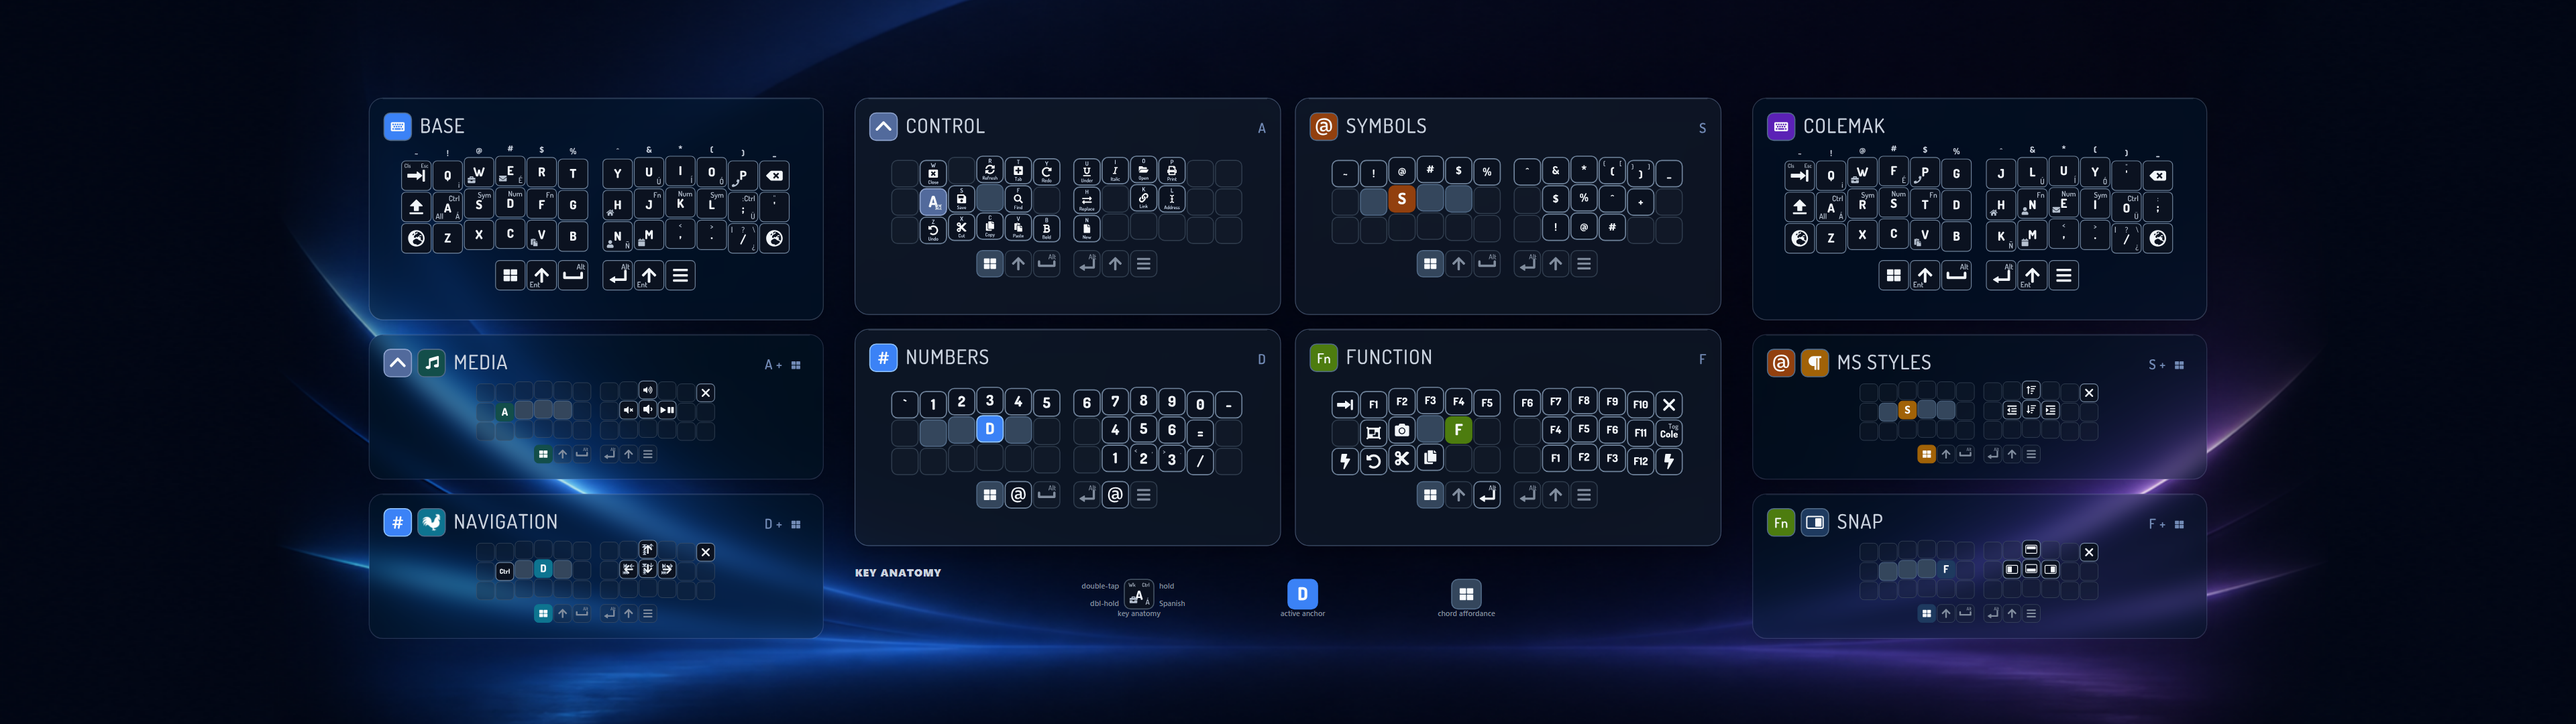
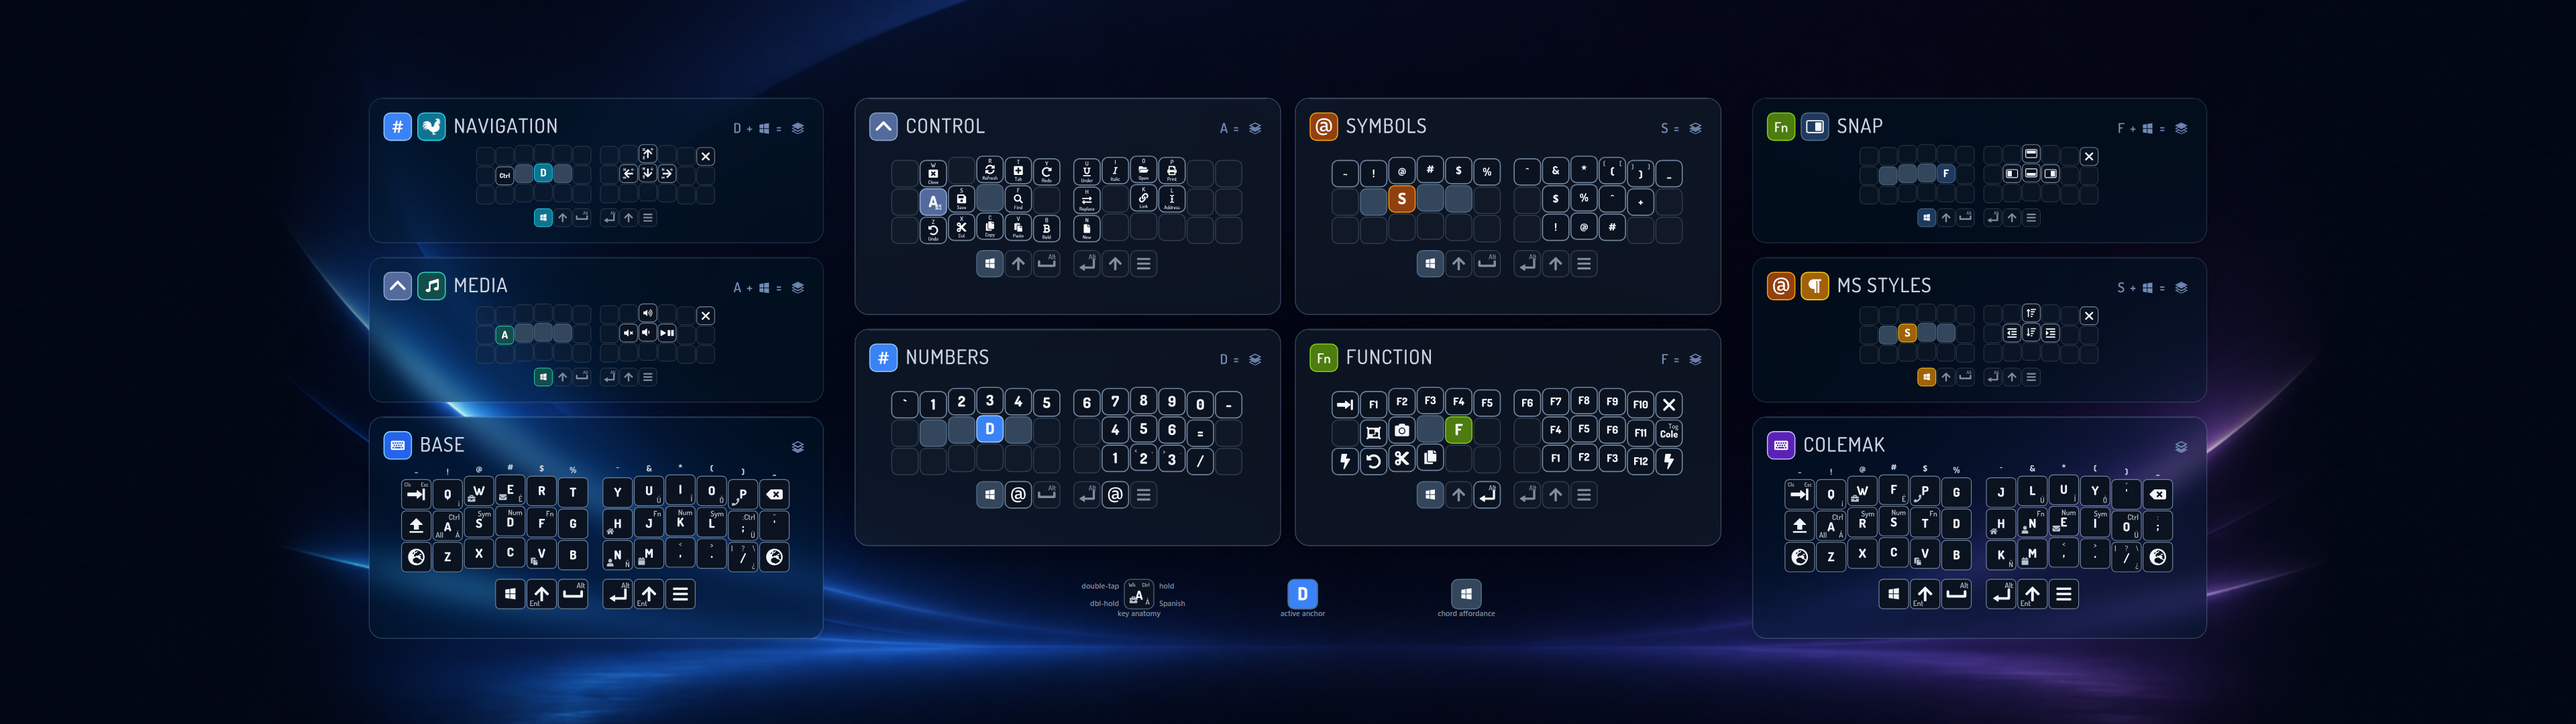
Refine desktop layer access grammar

diff --git a/tools/printable-guide/render_corne_guide.py b/tools/printable-guide/render_corne_guide.py
@@ -382,6 +382,7 @@ PORTAL_DEST = {}
 #   cue_text    â€” label/icon colour on a cue / embed tile
 DEFAULT_PALETTE = {
     "chord":      "#3b82f6",
+    "chord_stroke": "#93c5fd",
     "chord_text": "#ffffff",
     "chord_hold": "#bfdbfe",
     "cue":        "#bfdbfe",
@@ -391,36 +392,39 @@ DEFAULT_PALETTE = {
 
 LAYER_PALETTE = {
     # Hybrid print-safe â€” hue family matches firmware LEDs, darker shades for white-on-chord legibility
-    "SYMBOLS":    {"chord": "#92400e", "chord_text": "#ffffff", "chord_hold": "#fde68a",
+    "BASE":       {"chord": "#2563eb", "chord_stroke": "#7dd3fc", "chord_text": "#ffffff", "chord_hold": "#dbeafe",
                    "cue":        "#bfdbfe", "cue_stroke": "#93c5fd", "cue_text":   "#1e40af"},
-    "MEDIA":      {"chord": "#134e4a", "chord_text": "#ffffff", "chord_hold": "#ccfbf1",
+    "SYMBOLS":    {"chord": "#92400e", "chord_stroke": "#f59e0b", "chord_text": "#ffffff", "chord_hold": "#fde68a",
                    "cue":        "#bfdbfe", "cue_stroke": "#93c5fd", "cue_text":   "#1e40af"},
-    "TEXT":       {"chord": "#9f1239", "chord_text": "#ffffff", "chord_hold": "#fecdd3",
+    "MEDIA":      {"chord": "#134e4a", "chord_stroke": "#2dd4bf", "chord_text": "#ffffff", "chord_hold": "#ccfbf1",
                    "cue":        "#bfdbfe", "cue_stroke": "#93c5fd", "cue_text":   "#1e40af"},
-    "FUNCTION":   {"chord": "#4d7c0f", "chord_text": "#ffffff", "chord_hold": "#d9f99d",
+    "TEXT":       {"chord": "#9f1239", "chord_stroke": "#fb7185", "chord_text": "#ffffff", "chord_hold": "#fecdd3",
                    "cue":        "#bfdbfe", "cue_stroke": "#93c5fd", "cue_text":   "#1e40af"},
-    "NUMBERS":    {"chord": "#1e40af", "chord_text": "#ffffff", "chord_hold": "#bfdbfe",
+    "FUNCTION":   {"chord": "#4d7c0f", "chord_stroke": "#84cc16", "chord_text": "#ffffff", "chord_hold": "#d9f99d",
                    "cue":        "#bfdbfe", "cue_stroke": "#93c5fd", "cue_text":   "#1e40af"},
-    "NAVIGATION": {"chord": "#0e7490", "chord_text": "#ffffff", "chord_hold": "#cffafe",
+    "NUMBERS":    {"chord": "#1e40af", "chord_stroke": "#60a5fa", "chord_text": "#ffffff", "chord_hold": "#bfdbfe",
                    "cue":        "#bfdbfe", "cue_stroke": "#93c5fd", "cue_text":   "#1e40af"},
-    "MSSTYLES":   {"chord": "#a16207", "chord_text": "#ffffff", "chord_hold": "#fef08a",
+    "NAVIGATION": {"chord": "#0e7490", "chord_stroke": "#22d3ee", "chord_text": "#ffffff", "chord_hold": "#cffafe",
                    "cue":        "#bfdbfe", "cue_stroke": "#93c5fd", "cue_text":   "#1e40af"},
-    "COLEMAK":    {"chord": "#5b21b6", "chord_text": "#ffffff", "chord_hold": "#ddd6fe",
+    "MSSTYLES":   {"chord": "#a16207", "chord_stroke": "#facc15", "chord_text": "#ffffff", "chord_hold": "#fef08a",
                    "cue":        "#bfdbfe", "cue_stroke": "#93c5fd", "cue_text":   "#1e40af"},
-    "CTRL":       {"chord": "#334155", "chord_text": "#f8fafc", "chord_hold": "#cbd5e1",
+    "COLEMAK":    {"chord": "#5b21b6", "chord_stroke": "#c4b5fd", "chord_text": "#ffffff", "chord_hold": "#ddd6fe",
                    "cue":        "#bfdbfe", "cue_stroke": "#93c5fd", "cue_text":   "#1e40af"},
-    "SNAP":       {"chord": "#1e3a5f", "chord_text": "#ffffff", "chord_hold": "#bfdbfe",
+    "CTRL":       {"chord": "#334155", "chord_stroke": "#94a3b8", "chord_text": "#f8fafc", "chord_hold": "#cbd5e1",
+                   "cue":        "#bfdbfe", "cue_stroke": "#93c5fd", "cue_text":   "#1e40af"},
+    "SNAP":       {"chord": "#1e3a5f", "chord_stroke": "#93c5fd", "chord_text": "#ffffff", "chord_hold": "#bfdbfe",
                    "cue":        "#bfdbfe", "cue_stroke": "#93c5fd", "cue_text":   "#1e40af"},
 }
 
 CTRL_SHORTCUT_PALETTE = {
-    "chord": "#0b1220", "chord_text": "#f8fafc", "chord_hold": "#dbeafe",
+    "chord": "#0b1220", "chord_stroke": "#6f839b", "chord_text": "#f8fafc", "chord_hold": "#dbeafe",
     "cue": "#bfdbfe", "cue_stroke": "#93c5fd", "cue_text": "#1e40af",
 }
 
 # Payload Del key uses the firmware Caps red (print-safe).
 DEL_PAL = {
     "chord":      "#b91c1c",
+    "chord_stroke": "#f87171",
     "chord_text": "#ffffff",
     "chord_hold": "#fecaca",
     "cue":        "#bfdbfe",
@@ -835,6 +839,19 @@ def draw_fa_glyph(cx, cy, key_size, token, fg):
         return f'<g transform="rotate({rot} {cx:.2f} {cy:.2f})">{use_el}</g>'
     return use_el
 
+def draw_windows_icon(cx, cy, visible_size, fg):
+    """Render the project Windows/GUI mark as four perspective panes."""
+    scale = visible_size / 24
+    return (
+        f'<g transform="translate({cx-visible_size/2:.2f} '
+        f'{cy-visible_size/2:.2f}) scale({scale:.5f})" fill="{fg}">'
+        '<path d="M3 4.2 10.5 3v8H3V4.2Z"/>'
+        '<path d="M11.7 2.8 21 1.5V11h-9.3V2.8Z"/>'
+        '<path d="M3 12.2h7.5v8L3 19v-6.8Z"/>'
+        '<path d="M11.7 12.2H21v9.3l-9.3-1.3v-8Z"/>'
+        '</g>'
+    )
+
 def draw_fa_corner(cx, cy, box, token, fg):
     """Render a small FA glyph fit to a `box`-sized square centred at (cx, cy).
 
@@ -1107,7 +1124,7 @@ def draw_key(x, y, w, h, tap, hold, double, dark, highlight, anchor_label,
 
     if highlight:
         fill = pal["chord"]
-        stroke = pal["chord"]
+        stroke = pal["chord_stroke"]
         text = pal["chord_text"]
         hold_color = pal["chord_hold"]
     elif payload:
@@ -1231,9 +1248,18 @@ def draw_key(x, y, w, h, tap, hold, double, dark, highlight, anchor_label,
             x + w/2, y + h/2, w, "@", text, size_factor=0.58
         ))
         is_icon = True
+    elif display == "_KEY_GUI":
+        out.append(draw_windows_icon(x + w/2, y + h/2, w * 0.46, text))
+        is_icon = True
     elif display == "_MEDIA_PLAY":
         out.append(draw_fa_pair(x + w/2, y + h/2, w, "_MEDIA_PLAY",
                                 "_MEDIA_PAUSE", text))
+        is_icon = True
+    elif display == "_MEDIA_VOLDN":
+        # Keep the Font Awesome family at equal scale. Its volume-down glyph
+        # has asymmetric intrinsic bounds, so align its speaker optically.
+        out.append(draw_fa_glyph(x + w/2 - w*0.11, y + h/2,
+                                 w*0.84, display, text))
         is_icon = True
     elif display in ICON_TOKENS:
         out.append(draw_fa_glyph(x + w/2, y + h/2, w, display, text))
@@ -1280,7 +1306,7 @@ def draw_key(x, y, w, h, tap, hold, double, dark, highlight, anchor_label,
         faint_fs = max(5, int(min(font_hold, fit)))
     if hold and not blank and not trans and not highlight and not secondary:
         if hold in ICON_TOKENS:
-            box = w * 0.26
+            box = w * (0.18 if hold in ARROW_ICONS else 0.26)
             out.append(draw_fa_corner(x + w - 5 - box/2, y + 5 + box/2,
                                       box, hold, hold_color))
         else:
@@ -1290,7 +1316,7 @@ def draw_key(x, y, w, h, tap, hold, double, dark, highlight, anchor_label,
             )
     if double and not blank and not trans and not highlight and not secondary:
         if double in ICON_TOKENS:
-            box = w * 0.26
+            box = w * (0.18 if double in WORD_ICONS else 0.26)
             out.append(draw_fa_corner(x + 5 + box/2, y + 5 + box/2,
                                       box, double, hold_color))
         else:
@@ -1304,7 +1330,7 @@ def draw_key(x, y, w, h, tap, hold, double, dark, highlight, anchor_label,
             out.append(draw_snap_icon(x + 5 + box/2, y + h - 5 - box/2,
                                       box / 0.62, double_hold, hold_color))
         elif double_hold in ICON_TOKENS:
-            box = w * 0.26
+            box = w * (0.18 if double_hold in EXTREME_ICONS else 0.26)
             out.append(draw_fa_corner(x + 5 + box/2, y + h - 5 - box/2,
                                       box, double_hold, hold_color))
         else:
@@ -1554,6 +1580,83 @@ def draw_card_badge(cx, cy, size, layer_name, fg):
     return ""
 
 
+DESKTOP_LAYER_DEPTH = {
+    "BASE": "base",
+    "COLEMAK": "base",
+    "CTRL": "anchor",
+    "SYMBOLS": "anchor",
+    "NUMBERS": "anchor",
+    "FUNCTION": "anchor",
+    "MEDIA": "chord",
+    "MSSTYLES": "chord",
+    "NAVIGATION": "chord",
+    "SNAP": "chord",
+}
+
+
+def draw_desktop_layer_depth_icon(x, y, height, state, fg):
+    """Render the three-level header mark from one whole and two L planes."""
+    scale = height / 32
+    paths = [
+        '<path fill-rule="evenodd" d="M27 0 43 8 27 16 11 8Z '
+        'M27 3 37 8 27 13 17 8Z"/>',
+        '<path transform="translate(0 7)" fill-rule="evenodd" '
+        'd="M19 4 27 8 35 4 43 8 35 12 27 16 19 12 11 8Z '
+        'M20 6 27 10 34 6 39 8 34 10 27 14 20 10 15 8Z"/>',
+        '<path transform="translate(0 14)" fill-rule="evenodd" '
+        'd="M19 4 27 8 35 4 43 8 35 12 27 16 19 12 11 8Z '
+        'M20 6 27 10 34 6 39 8 34 10 27 14 20 10 15 8Z"/>',
+    ]
+    fills = {
+        "chord": '<path d="M27 3 37 8 27 13 17 8Z"/>',
+        "anchor": '<path transform="translate(0 7)" '
+                  'd="M20 6 27 10 34 6 39 8 34 10 27 14 20 10 15 8Z"/>',
+        "base": '<path transform="translate(0 14)" '
+                'd="M20 6 27 10 34 6 39 8 34 10 27 14 20 10 15 8Z"/>',
+    }
+    return (
+        f'<g transform="translate({x:.2f} {y:.2f}) scale({scale:.5f})" '
+        f'fill="{fg}">{"".join(paths)}{fills[state]}</g>'
+    )
+
+
+def draw_desktop_access_formula(right_x, centre_y, anchor, with_gui,
+                                depth_state, fg):
+    """Right-align a tokenised access equation with uniform optical gaps."""
+    font_size = 13
+    weight = 600
+    letter_spacing = 0.4
+    gap = 5
+    icon_h = 12
+    depth_w = icon_h * 54 / 32
+    baseline_y = centre_y + 4
+    parts = []
+
+    cursor = right_x - depth_w
+    parts.append(draw_desktop_layer_depth_icon(
+        cursor, centre_y - icon_h / 2, icon_h, depth_state, fg
+    ))
+
+    for token_type, token in reversed(
+            ([('text', anchor), ('text', '+'), ('gui', None), ('text', '=')]
+             if with_gui else
+             [('text', anchor), ('text', '=')])):
+        cursor -= gap
+        if token_type == 'gui':
+            cursor -= icon_h
+            parts.append(draw_windows_icon(
+                cursor + icon_h / 2, centre_y, icon_h, fg
+            ))
+        else:
+            token_w = dosis_width(token, font_size, letter_spacing, weight)
+            cursor -= token_w
+            parts.append(dosis_text(
+                cursor, baseline_y, token, font_size, fg,
+                anchor="start", letter_spacing=letter_spacing, weight=weight
+            ))
+    return "".join(parts)
+
+
 def draw_section_card(x, y, w, h, num, title, sub, layer_name=None,
                       desktop_title=False, parent_layer_name=None):
     out = []
@@ -1565,7 +1668,7 @@ def draw_section_card(x, y, w, h, num, title, sub, layer_name=None,
         # Keep every semantic badge foreground white. Literal #ffffff is
         # remapped by the desktop palette pass, so use an unmapped soft white.
         badge_text = "#f8fafc"
-    badge_stroke = pal.get("cue_stroke", badge_fill) if has_pal else badge_fill
+    badge_stroke = pal.get("chord_stroke", DEFAULT_PALETTE["chord_stroke"])
     chord_fill = pal.get("cue_text", pal["chord"]) if has_pal else BLUE
     out.append(
         f'<rect x="{x}" y="{y}" width="{w}" height="{h}" '
@@ -1580,7 +1683,7 @@ def draw_section_card(x, y, w, h, num, title, sub, layer_name=None,
     for badge_layer in badge_layers:
         badge_pal = palette_for(badge_layer)
         badge_layer_fill = badge_pal["chord"]
-        badge_layer_stroke = badge_pal.get("cue_stroke", badge_layer_fill)
+        badge_layer_stroke = badge_pal.get("chord_stroke", badge_layer_fill)
         out.append(
             f'<rect class="card-badge card-badge-{badge_layer or "default"}" '
             f'x="{badge_x}" y="{y+14}" width="26" height="26" '
@@ -1606,20 +1709,19 @@ def draw_section_card(x, y, w, h, num, title, sub, layer_name=None,
         if desktop_title:
             access_keys = access_keys[:1]
         chord = format_chord(access_keys, anchor_keys)
-        if desktop_title and access_keys and anchor_keys:
-            out.append(dosis_text(
-                x + w - 39, y + 33, f"{access_keys[0]} +", 13,
-                chord_fill, anchor="end", letter_spacing=0.4, weight=600
+        depth_state = DESKTOP_LAYER_DEPTH.get(layer_name)
+        # Match the visible height of the GUI glyph, not its 18 px keycap box.
+        depth_h = 12
+        depth_w = depth_h * 54 / 32
+        depth_right = x + w - 14
+        if desktop_title and depth_state and access_keys:
+            out.append(draw_desktop_access_formula(
+                depth_right, y + 29, access_keys[0], bool(anchor_keys),
+                depth_state, chord_fill
             ))
-            out.append(draw_fa_glyph(
-                # The shared glyph is tuned for keycap centring. Nudge this
-                # header-only use down to the capital-letter optical centre.
-                x + w - 26, y + 29, 18, "_KEY_GUI", chord_fill
-            ))
-        elif desktop_title and chord:
-            out.append(dosis_text(
-                x + w - 14, y + 33, chord, 13, chord_fill,
-                anchor="end", letter_spacing=0.4, weight=600
+        elif desktop_title and depth_state:
+            out.append(draw_desktop_layer_depth_icon(
+                depth_right - depth_w, y + 23, depth_h, depth_state, chord_fill
             ))
         elif chord:
             out.append(
@@ -1890,10 +1992,8 @@ def build_desktop(width, height, content_width, desktop_background="gradient",
     top_y, alpha_h = 45, 210
     side_gap = 14
     utility_h = 137
-    utility_y = (
-        top_y + alpha_h + side_gap,
-        top_y + alpha_h + side_gap + utility_h + side_gap,
-    )
+    utility_y = (top_y, top_y + utility_h + side_gap)
+    alpha_y = utility_y[1] + utility_h + side_gap
     focus_gap = 14
     focus_w = (center_w - focus_gap) / 2
     focus_y = (45, 264)
@@ -1933,15 +2033,15 @@ def build_desktop(width, height, content_width, desktop_background="gradient",
         for title, layer_name, data, num, role in ROW2_SPECS + ROW3_SPECS
     }
 
-    def render_alpha(name, x):
+    def render_alpha(name, x, y):
         sub, data, num = alpha_specs[name]
         parts.append(desktop_card(
-            x, top_y, side_w, alpha_h, num, name, sub, name, "alpha"
+            x, y, side_w, alpha_h, num, name, sub, name, "alpha"
         ))
         unit = 43
         keyboard_scale = 28 / unit
         kb_x = x + (side_w - _kb_width_est(unit) * keyboard_scale) / 2
-        kb_y = top_y + 55
+        kb_y = y + 55
         keyboard, _, _ = draw_keyboard(
             0, 0, unit, data, name in DARK_LAYER, set(), layer_name=name
         )
@@ -2013,12 +2113,12 @@ def build_desktop(width, height, content_width, desktop_background="gradient",
             f'opacity="{content_opacity}">{keyboard}</g>'
         )
 
-    render_alpha("BASE", left_x)
-    render_alpha("COLEMAK", right_x)
-    render_layer("MEDIA", left_x, utility_y[0], side_w, utility_h, "utility")
-    render_layer("NAVIGATION", left_x, utility_y[1], side_w, utility_h, "utility")
-    render_layer("MSSTYLES", right_x, utility_y[0], side_w, utility_h, "utility")
-    render_layer("SNAP", right_x, utility_y[1], side_w, utility_h, "utility")
+    render_layer("NAVIGATION", left_x, utility_y[0], side_w, utility_h, "utility")
+    render_layer("MEDIA", left_x, utility_y[1], side_w, utility_h, "utility")
+    render_alpha("BASE", left_x, alpha_y)
+    render_layer("SNAP", right_x, utility_y[0], side_w, utility_h, "utility")
+    render_layer("MSSTYLES", right_x, utility_y[1], side_w, utility_h, "utility")
+    render_alpha("COLEMAK", right_x, alpha_y)
     render_layer("CTRL", center_x, focus_y[0], focus_w, focus_h, "focus")
     render_layer("SYMBOLS", center_x + focus_w + focus_gap,
                  focus_y[0], focus_w, focus_h, "focus")
@@ -2026,10 +2126,6 @@ def build_desktop(width, height, content_width, desktop_background="gradient",
     render_layer("FUNCTION", center_x + focus_w + focus_gap,
                  focus_y[1], focus_w, focus_h, "focus")
 
-    parts.append(
-        f'<text x="{center_x}" y="{anatomy_y+15}" {FONTFAM} font-size="10" '
-        f'font-weight="800" fill="{INK}" letter-spacing="0.6">KEY ANATOMY</text>'
-    )
     anatomy_unit = 28
     anatomy_key_y = anatomy_y + 18
     anatomy_start = center_x + center_w / 2 - 155
